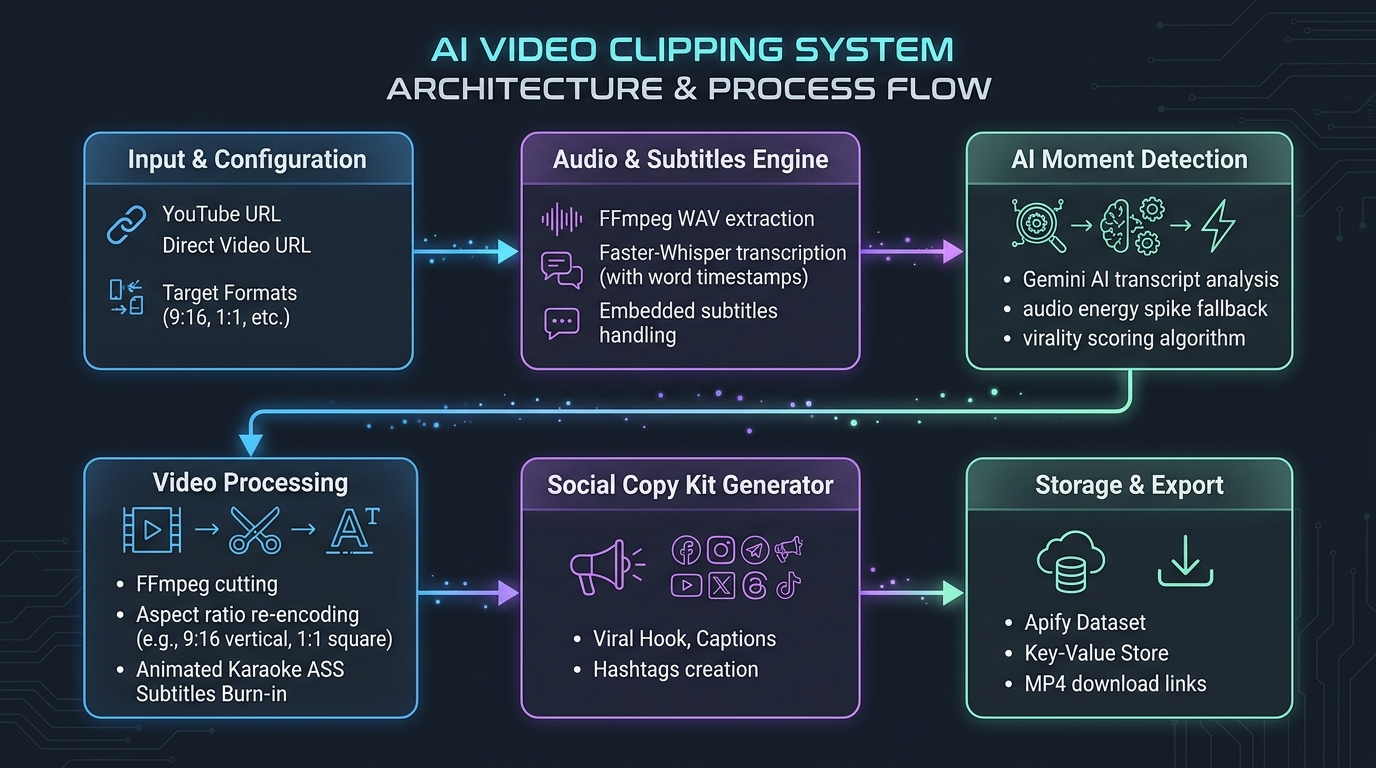
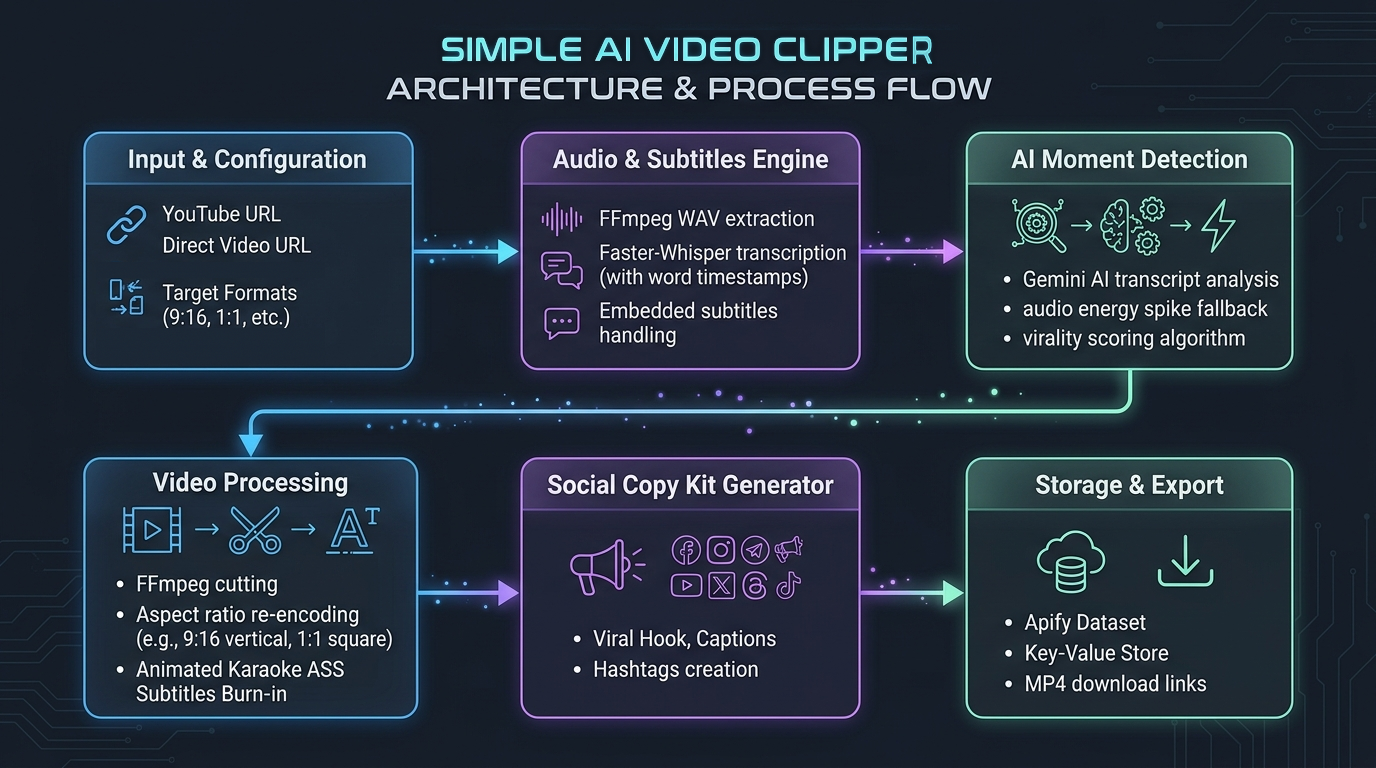
fix

Changed region(s): [[0.3125, 0.0312, 0.6875, 0.0938]]

diff --git a/README.md b/README.md
@@ -1,6 +1,6 @@
-# Simple AI Video Clipper – 
+# Simple AI Video Clipper - Generate Shorts, Viral title, Hashtag, Download video clips for social media from long videos
 
-Automatically detect the most engaging moments in videos (direct video files or long YouTube videos such as podcasts, interviews, and streams) and generate ready-to-use clips optimized for YouTube Shorts, Instagram Reels, and TikTok.
+Automatically detect the most engaging moments in videos (direct video files or long YouTube videos such as podcasts, interviews, and streams) and generate ready-to-use clips optimized for YouTube Shorts, Instagram Reels, and TikTok. Produce Title, hastag and short description for clips.
 
 ## High-Level Workflow
 
